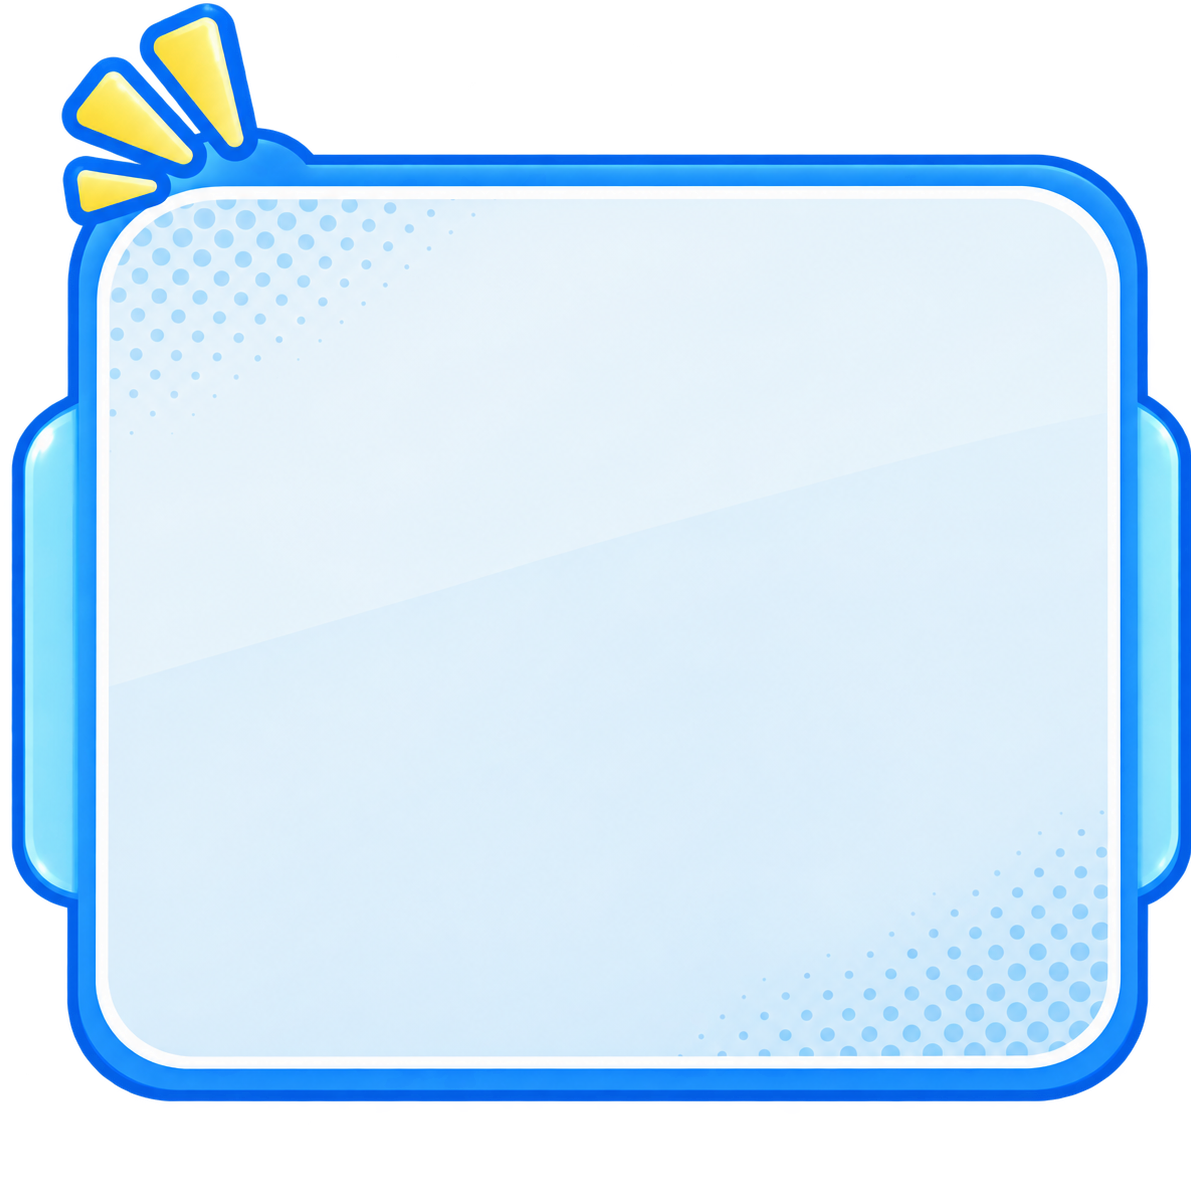
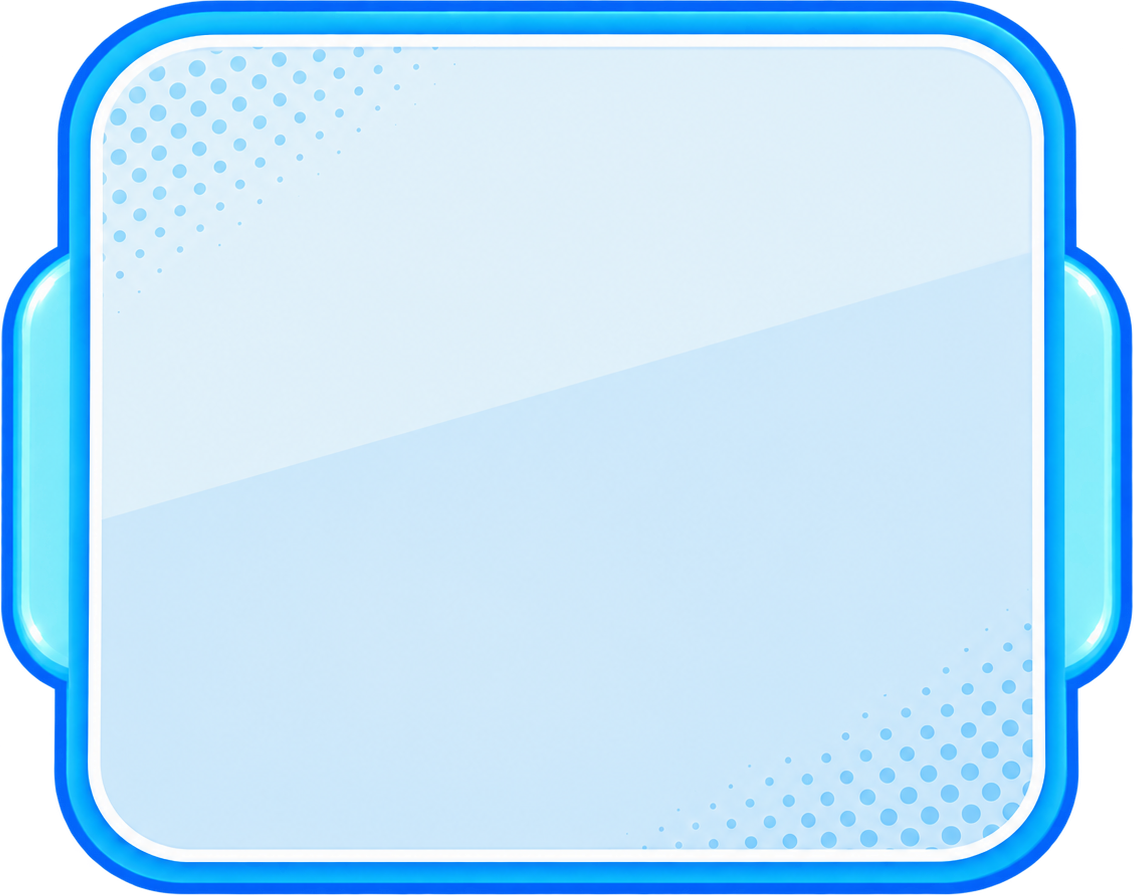
ダイアログ表示

diff --git a/Src/Manager/System/TextManager.cpp b/Src/Manager/System/TextManager.cpp
@@ -24,7 +24,6 @@ void TextManager::DrawTextToImage(const std::wstring& _str, const int _x, const 
 	int fontSize = _size;
 
 	//行間
-	const int BETWEEN = 5;
 	int lineHeight = fontSize + BETWEEN;
 
 	//描画し終わっていないなら
@@ -117,9 +116,6 @@ void TextManager::DrawTextToImage(const std::wstring& _str, const int _x, const 
 		//画像サイズ
 		GetGraphSize(foundImage, &originalWidth, &originalHeight);
 
-		//フォントと比べた画像側の比率
-		const float IMAGE_SCALE = 1.2f;
-
 		//フォントサイズに画像の高さを合わせる
 		int imageHeight = static_cast<int>(fontSize * IMAGE_SCALE);
 
@@ -142,27 +138,110 @@ void TextManager::DrawTextToImage(const std::wstring& _str, const int _x, const 
 
 const int TextManager::GetMaxWidth(const std::wstring& _str, const int _size, const int _thick, const FONT_TYPE& _font) const
 {
-	//フォントを取得
+	// フォントを取得
 	auto& fontMng = FontManager::GetInstance();
 	const int font = fontMng.GetFontHandle(_font, _size, _thick);
+
+	// フォントサイズに合わせた画像幅を取得
+	auto GetImageWidth = [&](const int image)
+		{
+			int originalWidth;
+			int originalHeight;
+
+			GetGraphSize(image, &originalWidth, &originalHeight);
+
+			if (originalHeight <= 0) return 0;
+
+			// フォントサイズに画像の高さを合わせる
+			int imageHeight = static_cast<int>(_size * IMAGE_SCALE);
+
+			// アスペクト比を維持して幅を計算
+			return static_cast<int>(
+				static_cast<float>(originalWidth) * imageHeight / originalHeight
+				);
+		};
 
 	std::wstringstream ss(_str);
 	std::wstring line;
 
 	int maxWidth = 0;
 
+	// 1行ずつ処理
 	while (std::getline(ss, line))
 	{
-		int width = GetDrawStringWidthToHandle(
-			line.c_str(),
-			static_cast<int>(line.size()),
-			font
-		);
+		// まだ幅を計算していない文章
+		std::wstring remaining = line;
 
-		maxWidth = std::max(maxWidth, width);
+		// 現在の行の幅
+		int lineWidth = 0;
+
+		while (!remaining.empty())
+		{
+			// 置き換え対象を探す
+			size_t foundPos = std::wstring::npos;
+			std::wstring foundKey;
+			int foundImage = -1;
+
+			for (const auto& textImage : textImages_)
+			{
+				const std::wstring& key = textImage.text;
+
+				size_t pos = remaining.find(key);
+
+				// 最も前にある置き換え対象を採用
+				if (pos != std::wstring::npos &&
+					(foundPos == std::wstring::npos || pos < foundPos))
+				{
+					foundPos = pos;
+					foundKey = key;
+					foundImage = textImage.image;
+				}
+			}
+
+			// 置き換え対象がなければ残りの文字幅を加算
+			if (foundPos == std::wstring::npos)
+			{
+				lineWidth += GetDrawStringWidthToHandle(
+					remaining.c_str(),
+					-1,
+					font
+				);
+
+				break;
+			}
+
+			// 画像より前の文章
+			std::wstring before = remaining.substr(0, foundPos);
+
+			if (!before.empty())
+			{
+				lineWidth += GetDrawStringWidthToHandle(
+					before.c_str(),
+					-1,
+					font
+				);
+			}
+
+			// 画像の幅を加算
+			lineWidth += GetImageWidth(foundImage);
+
+			// 置き換えた部分を削除
+			remaining = remaining.substr(foundPos + foundKey.length());
+		}
+
+		// 最大幅を更新
+		maxWidth = std::max(maxWidth, lineWidth);
 	}
 
 	return maxWidth;
+}
+
+const int TextManager::GetTextHeight(const int _lineCount, const int _size) const
+{
+	if (_lineCount <= 0) return 0;
+
+	return _lineCount * _size
+		+ (_lineCount - 1) * BETWEEN;
 }
 
 const int TextManager::GetLineCount(const std::wstring& _str) const

diff --git a/Src/Manager/Game/GuideManager.cpp b/Src/Manager/Game/GuideManager.cpp
@@ -127,10 +127,15 @@ GuideManager::GuideManager(void)
 	text_[static_cast<int>(GUIDE_TYPE::MACHINE)] = L"[マシン]\n別のマシンに乗り換えてみよう。\nマシンによって性能は様々。\n自身にあったマシンを見つけよう。";
 
 	//ダイアログマテリアル
-	dialogMaterial_ = std::make_unique<PixelMaterial>(L"Dialog.cso", 2);
-	dialogMaterial_->AddConstBuf({ 0.3f,0.3f,0.0f,0.0f });
+	int dialogImg_ = ResourceManager::GetInstance().Load(ResourceManager::SRC::DIALOG).handleId_;
+	GetGraphSize(dialogImg_, &dialogSize_.x, &dialogSize_.y);
+
+	dialogMaterial_ = std::make_unique<PixelMaterial>(L"Dialog.cso", 4);
+	dialogMaterial_->AddConstBuf({ 0.3f,0.3f,static_cast<float>(dialogSize_.x), static_cast<float>(dialogSize_.y) });
+	dialogMaterial_->AddConstBuf({ DST_BORDER_SIZE,DST_BORDER_SIZE,DST_BORDER_SIZE,DST_BORDER_SIZE });
+	dialogMaterial_->AddConstBuf({ SRC_BORDER_SIZE, SRC_BORDER_SIZE,SRC_BORDER_SIZE, SRC_BORDER_SIZE });
 	dialogMaterial_->AddConstBuf({ 1.0f,1.0f,1.0f,1.0f });
-	dialogMaterial_->AddTextureBuf(ResourceManager::GetInstance().Load(ResourceManager::SRC::DIALOG).handleId_);
+	dialogMaterial_->AddTextureBuf(dialogImg_);
 }
 
 GuideManager::~GuideManager(void)
@@ -139,7 +144,6 @@ GuideManager::~GuideManager(void)
 
 void GuideManager::LoadOutSide(void)
 {
-
 }
 
 void GuideManager::DrawGuide(const int _playerIndex)
@@ -150,12 +154,8 @@ void GuideManager::DrawGuide(const int _playerIndex)
 	//表示するものがないなら何もしない
 	if (types.empty())return;
 
-	//表示するテキスト
-	const auto& frontType = types.front();
-	const std::wstring& text = text_[static_cast<int>(frontType)];
-	const FONT_TYPE font = FONT_TYPE::LOGO;
-	int textLineCount = TextManager::GetInstance().GetLineCount(text);
-	int maxLineLength = TextManager::GetInstance().GetMaxWidth(text, TEXT_SIZE, TEXT_THICK, font);
+	//テキストマネージャー
+	const auto& textMng = TextManager::GetInstance();
 
 	//分割
 	const auto& view = SplitScreenManager::GetInstance().GetViewport(_playerIndex);
@@ -164,21 +164,31 @@ void GuideManager::DrawGuide(const int _playerIndex)
 	float scale = static_cast<float>(view.height) / Application::SCREEN_SIZE_Y;
 	int size = static_cast<int>(TEXT_SIZE * scale);
 
+	//表示するテキスト
+	const auto& frontType = types.front();
+	const std::wstring& text = text_[static_cast<int>(frontType)];
+	const FONT_TYPE font = FONT_TYPE::LOGO;
+	int textLineCount = textMng.GetLineCount(text);
+	int textHeight = textMng.GetTextHeight(textLineCount, size);
+	int maxWidth = textMng.GetMaxWidth(text, size, TEXT_THICK, font);
+
 	//座標
 	Vector2 pos = { view.x, view.y };
 	Vector2 localPos = LOCAL_POS * scale;
+
+	//先に座標をセットしておく
+	renderer_.SetPos(pos);
 	pos += localPos;
 
 	//ダイアログ描画
-	renderer_.SetPos(pos);
-	Vector2 dialogSize = { maxLineLength, static_cast<int>(size * textLineCount) };
+	Vector2 dialogSize = { maxWidth + localPos.x * 2, textHeight + localPos.y * 2 };
 	renderer_.SetSize(dialogSize);
 	SetDrawBlendMode(DX_BLENDMODE_ALPHA, 255);
+	dialogMaterial_->SetConstBuf(0, { static_cast<float>(dialogSize.x), static_cast<float>(dialogSize.y), static_cast<float>(dialogSize_.x), static_cast<float>(dialogSize_.y) });
 	renderer_.MakeSquareVertex();
 	renderer_.Draw(*dialogMaterial_);
 	SetDrawBlendMode(DX_BLENDMODE_NOBLEND, 255);
 
 	//テキスト描画
-	const auto& textMng = TextManager::GetInstance();
 	textMng.DrawTextToImage(text, pos.x, pos.y, size, TEXT_THICK, Utility::BLACK, font);
 }

diff --git a/Src/Manager/Game/GuideManager.h b/Src/Manager/Game/GuideManager.h
@@ -63,8 +63,12 @@ private:
 	static constexpr int TEXT_SIZE = 25;
 	static constexpr int TEXT_THICK = 5;
 
+	//ボーダーサイズ
+	static constexpr float SRC_BORDER_SIZE = 360.0f;
+	static constexpr float DST_BORDER_SIZE = 60.0f;
+
 	//説明の相対座標
-	static constexpr Vector2 LOCAL_POS = { 20,20 };
+	static constexpr Vector2 LOCAL_POS = { 30,20 };
 
 	//表示時間
 	static constexpr float DISPLAY_TIME = 3.0f;
@@ -81,6 +85,9 @@ private:
 	//ピクセルシェーダー
 	PixelRenderer renderer_;
 	std::unique_ptr<PixelMaterial> dialogMaterial_;
+
+	//ダイアログのサイズ
+	Vector2 dialogSize_;
 
 	//コンストラクタ
 	GuideManager(void);

diff --git a/Src/Manager/System/TextManager.h b/Src/Manager/System/TextManager.h
@@ -27,6 +27,9 @@ public:
 	//行の最大文字数の計算
 	const int GetMaxWidth(const std::wstring& _str, const int _size, const int _thick, const FONT_TYPE& _font)const;
 
+	//行の高さを計算
+	const int GetTextHeight(const int _lineCount, const int _size)const;
+
 	//行数の計算
 	const int GetLineCount(const std::wstring& _str)const;
 
@@ -41,6 +44,12 @@ private:
 		//変換後の画像
 		int image = -1;
 	};
+
+	//フォントと比べた画像側の比率
+	static constexpr float IMAGE_SCALE = 1.2f;
+
+	//テキストの間隔
+	static constexpr int BETWEEN = 5;
 
 	//テキスト画像
 	std::vector<TextImage> textImages_;
